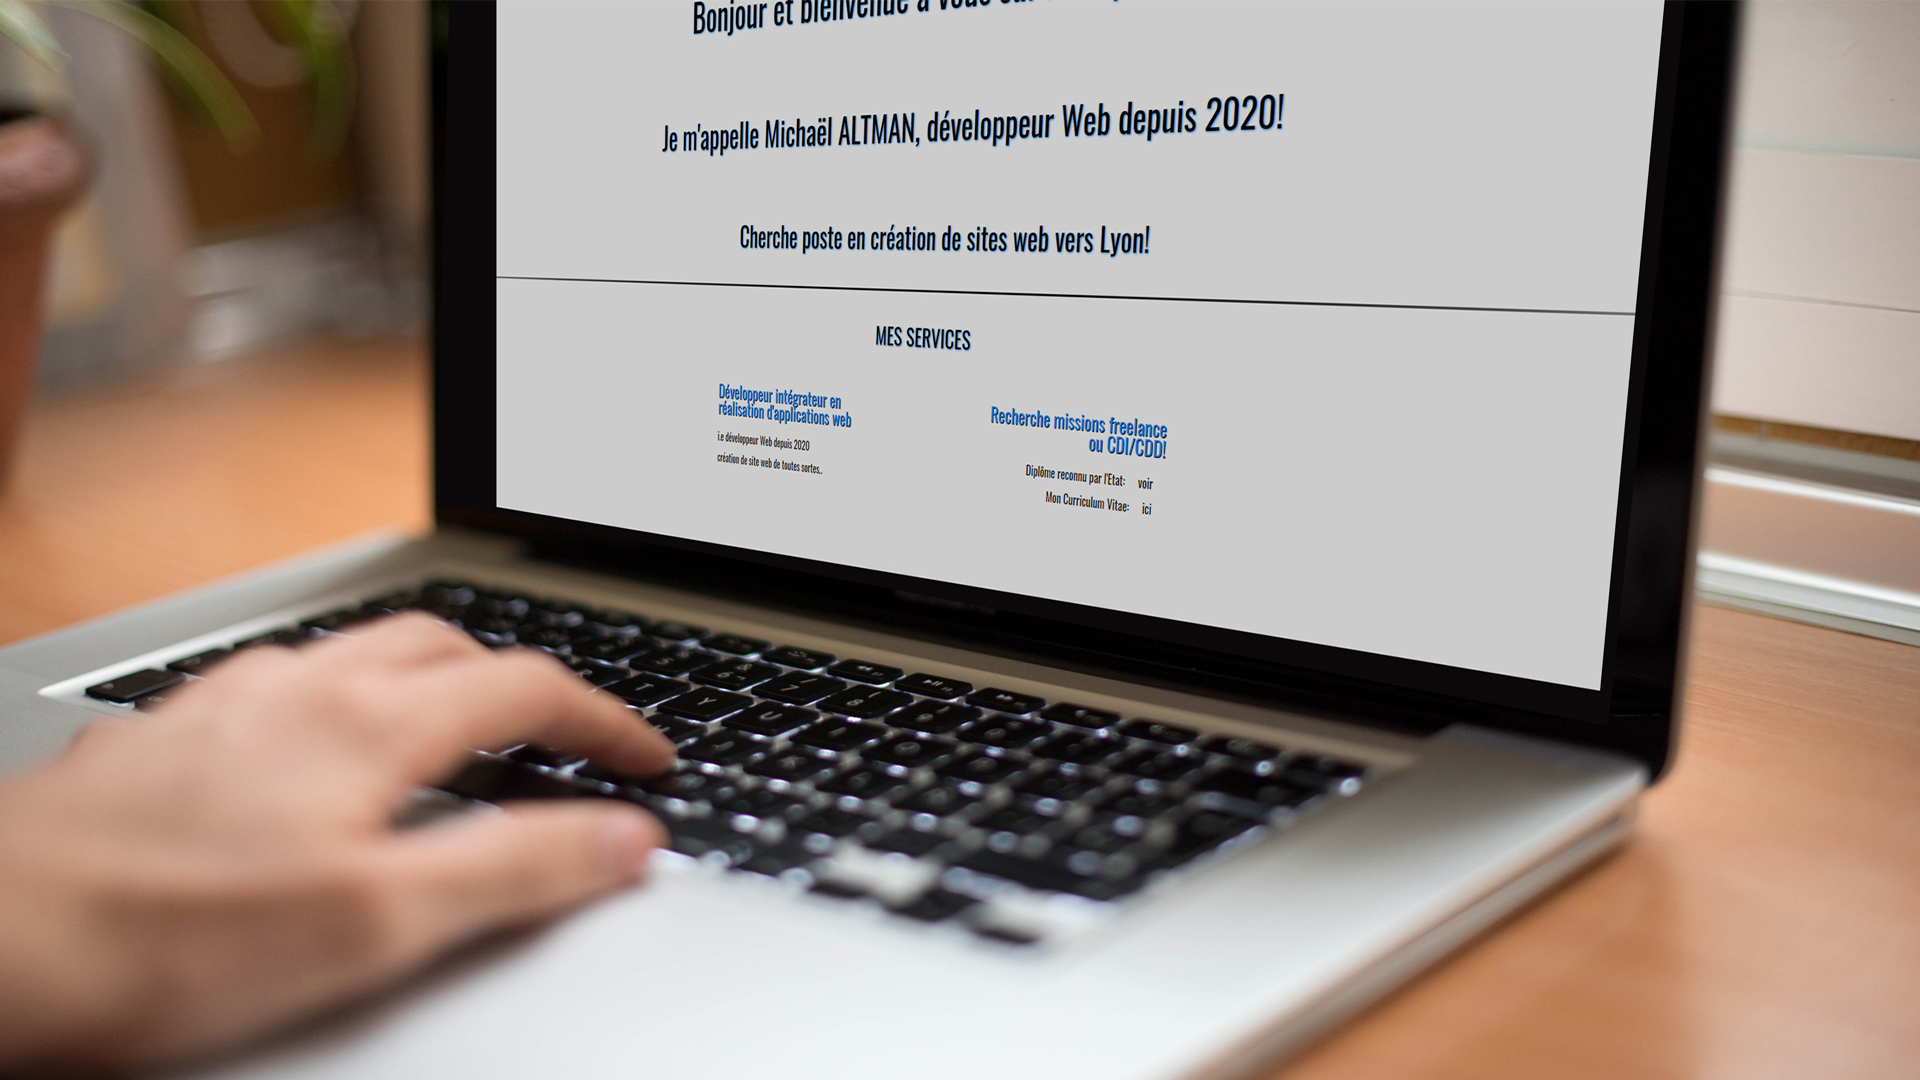
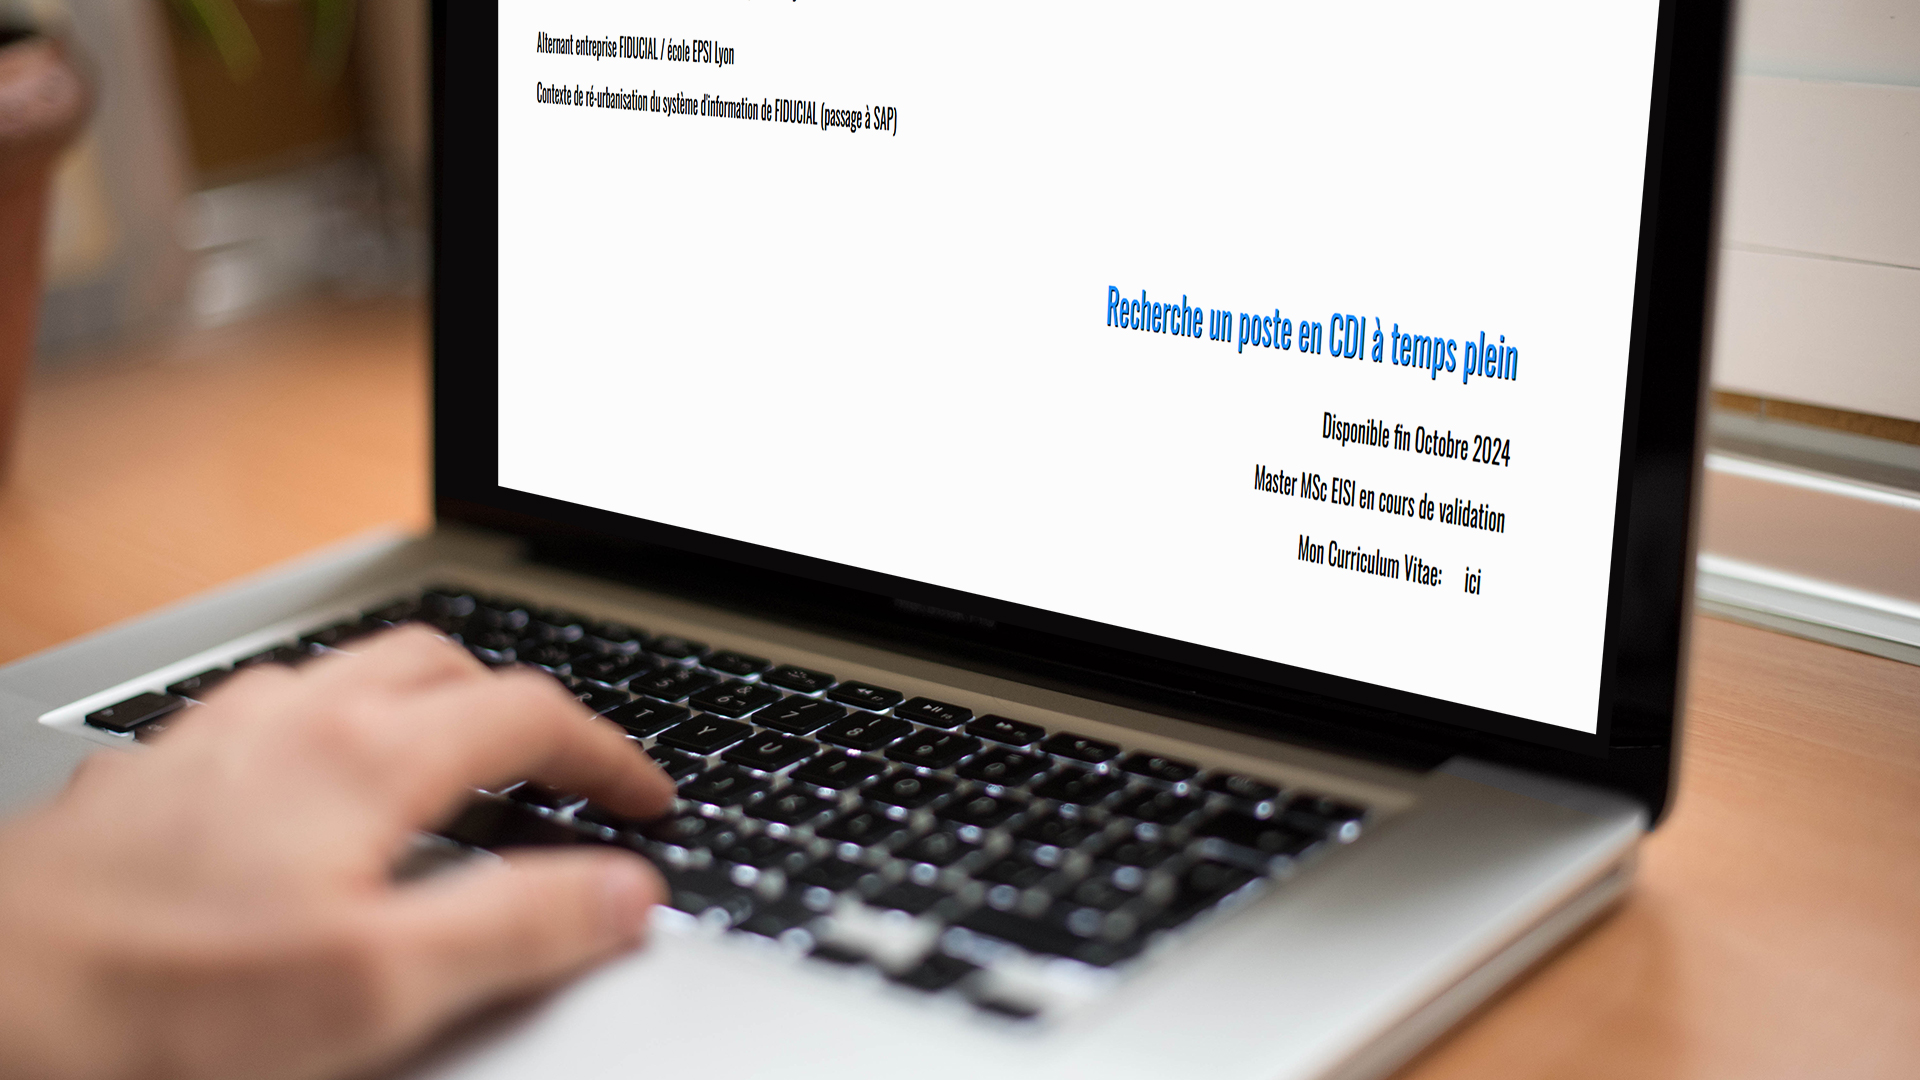
UPDATED avec la team

diff --git a/index.html b/index.html
@@ -97,10 +97,10 @@
         
         <!-- WELCOME -->
         <div id="welcome">
-            <img class="welcome-face" src="images/AM_moi.jpg" alt="moi..">
-            <h1 class="welcome-title1 slide-in-fwd-title">Bonjour et bienvenue à vous sur mon portfolio!</h1>
-            <h1 class="welcome-title2 slide-in-fwd-title">Je m'appelle Michaël ALTMAN, développeur Symfony/PHP depuis 2023!</h1>
-            <h1 class="welcome-title3 slide-in-fwd-title">Cherche une première expérience sur Lyon <a href="https://www.francecompetences.fr/recherche/rncp/35584/" target="_blank" >RNCP 35584</a></h1>
+            <img class="welcome-face" src="images/AM_moi.png" alt="moi..">
+            <h1 class="welcome-title1 slide-in-fwd-title">Bonjour et bienvenue sur mon portfolio</h1>
+            <h1 class="welcome-title2 slide-in-fwd-title">Je m'appelle Michaël ALTMAN, développeur Symfony/PHP</h1>
+            <h1 class="welcome-title3 slide-in-fwd-title">Développeur Web front et back sur Lyon</h1>
         </div>
         <!-- WELCOME -->
         
@@ -117,15 +117,16 @@
             <div class="sec-services-content">
                 <div class="sec-services-content-left slide-in-fwd-left">                
                     <h2>Développeur d'applications en Symfony 6+</h2>
-                    <p>Alternant en développement SYMFONY/PHP chez FIDUCIAL avec l'école EPSI Lyon</p><br>
-                    <p>Contexte de refonte du système d'information de FIDUCIAL (passage à SAP)</p>
+                    <p>Alternant entreprise FIDUCIAL / école EPSI Lyon</p><br>
+                    <p>Contexte de ré-urbanisation du système d'information de FIDUCIAL (passage à SAP)</p>
                 </div>
                 <div class="sec-services-content-middle slide-in-fwd-top">                
                 </div>
                 <div class="sec-services-content-right slide-in-fwd-right">
-                    <h2>Recherche un poste en CDI en temps plein pour d'ici fin Octobre 2024!</h2>
-                    <p>Diplôme reconnu par l'Etat: <a href="" target="_blank">en attente</a></p><br>
-                    <p>Mon Curriculum Vitae: <a href="/doc/ESN%20CV%20-%20Michael%20ALTMAN.pdf" target="_blank">là</a></p>
+                    <h2>Recherche un poste en CDI à temps plein</h2>
+                    <p>Disponible fin Octobre 2024</p><br>
+                    <p>Master MSc EISI en cours de validation</p><br>
+                    <p>Mon Curriculum Vitae: <a href="/doc/ESN%20CV%20-%20Michael%20ALTMAN.pdf" target="_blank">ici</a></p>
                 </div>
             </div>
         </section>
@@ -133,7 +134,7 @@
         
         <hr class="grad">
         <div class="bg-services slide-in-fwd-center">
-            <q>"Un savoir-faire pour répondre à vos besoins le mieux possible"</q>
+            <q>"Un savoir-faire pour répondre à vos besoins"</q>
             <h3>SYMFONY / BOOTSTRAP</h3>
         </div>
         <hr class="grad">
@@ -271,11 +272,11 @@
                             <div class="sec-experience-timeline-content">
                                 <div class="sec-experience-timeline-title">
                                     <h3>Projet de fin de formation 3WA</h3>
-                                    <h4>Développement d'un projet complet</h4>
+                                    <h4>Développement d'un projet personnel</h4>
                                     <p><small class="fas fa-clock"></small> 2019-2020</p>
                                 </div>
                                 <div class="sec-experience-timeline-body">
-                                    <p>Site personnel d'équipe de jeux en ligne</p>
+                                    <p>Site d'équipe de jeux en ligne</p>
                                     <p>Panneau d'administration: système CRUD articles + commentaires + produits + profiles membres</p>
                                     <p>Format responsive (adapté au mobile, tablette et pc)</p>
                                 </div>
@@ -330,28 +331,30 @@
         <section id="sec-education">
             <div class="sec-education">                
                 <div class="sec-education-title">
-                    <h1>Éducation</h1>
+                    <h1>Formations</h1>
                 </div>
                 <div class="sec-education-row">
                     <div class="sec-education-col">
                         <div class="sec-education-education-content">
-                           <h5>2022 - 2024</h5>
-                           <i class="fas fa-graduation-cap"></i>
-                           <h3>École EPSI Lyon: Certification Nationale</h3>
-                           <h4>Master Msc EISI : Expert en Informatique et Systèmes d'Information</h4>             
-                            <p>Piloter l’informatique décisionnelle d’un S.I. (Big Data & B.I)</p>
-                            <p>Analyser et définir la stratégie d'un S.I.</p>
-                            <p>Manager un projet informatique avec agilité en collaboration avec les parties prenantes</p>                          
+                            <h5>2022 - 2024</h5>
+                            <i class="fas fa-graduation-cap"></i>
+                            <h3>École EPSI Lyon: Certification Nationale</h3>
+                            <p>Master Msc EISI : Expert en Informatique et Systèmes d'Information</p>  
+                            <h4>Blocs de compétences à valider :</h4>           
+                            <h4>Piloter l’informatique décisionnelle d’un S.I. (Big Data & B.I)</h4>
+                            <h4>Analyser et définir la stratégie d'un S.I.</h4>
+                            <h4>Manager un projet informatique avec agilité en collaboration avec les parties prenantes</h4>                          
                        </div>
                    </div>
                     <div class="sec-education-col">
                         <div class="sec-education-education-content">
-                           <h5>2021 - 2022</h5>
-                           <i class="fas fa-graduation-cap"></i>
-                           <h3>École EPSI Lyon: Certification Nationale</h3>
-                           <h4>Bachelor IT - Concepteur intégrateur DEVOPS</h4>             
-                            <p>Solutions applicatives métier et spécifiques (mobiles, embarquées et ERP)</p>
-                            <p>Concevoir et sécuriser des solutions d’infrastructure virtualisées et cloud</p>                           
+                            <h5>2021 - 2022</h5>
+                            <i class="fas fa-graduation-cap"></i>
+                            <h3>École EPSI Lyon: Certification Nationale</h3>
+                            <p>Bachelor IT - Concepteur intégrateur DEVOPS</p> 
+                            <h4>Blocs de compétences acquises :</h4>             
+                            <h4>Solutions applicatives métier et spécifiques (mobiles, embarquées et ERP)</h4>
+                            <h4>Concevoir et sécuriser des solutions d’infrastructure virtualisées et cloud</h4>                           
                        </div>
                    </div>                   
                     <div class="sec-education-col">
@@ -359,10 +362,10 @@
                             <h5>2019 - 2020</h5>
                             <i class="fas fa-graduation-cap"></i>
                             <h3>3W Academy de Lyon: Certification Nationale</h3>
-                            <h4>Développement en vue de réalisation d'applications Web</h4>             
-                             <p>Les 5 technologies du Web:</p>
-                             <p>HTML 5 + CSS3 + PHP 5 + MYSQL + JS</p>
-                             <p>Formation intensive en programmation informatique</p>
+                            <p>Développement en vue de réalisation d'applications Web</p>             
+                            <h4>Les 5 technologies du Web:</h4>
+                            <h4>HTML 5 + CSS3 + PHP 5 + MYSQL + JS</h4>
+                            <h4>Formation intensive en programmation informatique</h4>
                         </div>
                     </div>
                     <div class="sec-education-col">
@@ -370,10 +373,10 @@
                             <h5>2002 - 2009</h5>
                             <i class="fas fa-graduation-cap"></i>
                             <h3>Master 2 - Université Montpellier II</h3>
-                            <h4>Sciences et Techniques Pour l'Ingénieur:</h4>
-                            <h4>option Mécanique & ingénierie</h4>                            
-                            <p>Mécanique / Math / Informatique & autres sciences</p>
-                            <p>Mécanique des solides, élasticité, plasticité, éléments finis..</p>
+                            <p>Sciences et Techniques Pour l'Ingénieur:</p>
+                            <p>option Mécanique & ingénierie</p>                            
+                            <h4>Mécanique / Math / Informatique & autres sciences</h4>
+                            <h4>Mécanique des solides, élasticité, plasticité, éléments finis..</h4>
                         </div>
                     </div>
                 </div>
@@ -413,7 +416,7 @@
         <!-- SECTION DEMO -->
         <hr class="grad">
         <div class="bg-projets slide-in-fwd-center">
-            <q>"ESN ou entreprise, je suis entièrement à votre disposition"</q>
+            <q>"ESN: je suis d'ores et déjà prêt à discuter"</q>
         </div>           
         <hr class="grad">    
     
@@ -425,18 +428,16 @@
         <div id="ft-top">            
             <img class="ft-top-img" src="images/LOGO%20AM.png" alt="">
             <div class="ft-top-social">
-                <a href="#" target="_blank"><i class="fab fa-linkedin-in"></i></a>
-                <a href="#" target="_blank"><i class="fab fa-skype"></i></a>                
+                <a href="#" target="_blank"><i class="fab fa-linkedin-in"></i></a>                             
             </div>
         </div>
         <div id="ft-mid">
-            <h2>DÉVELOPPEUR SYMFONY/PHP</h2>
-                <p><strong>Développeur Web front, surtout back-end, en recherche de cdi et cdd, ESN bienvenues.</p>
+            <h2>DÉVELOPPEUR SYMFONY/PHP DE DEUX ANNÉES D'EXPERIENCES</h2>                
         </div>
         <div id="ft-bot">
             <div class="ft-bot-cc">
                 <!-- ajouter un mention légal dès que possible? -->
-                <h2>MICHAEL ALTMAN @ COPYRIGHT 2024</h2>
+                <h2>copyright 2024</h2>
             </div>
         </div>        
     </footer>
